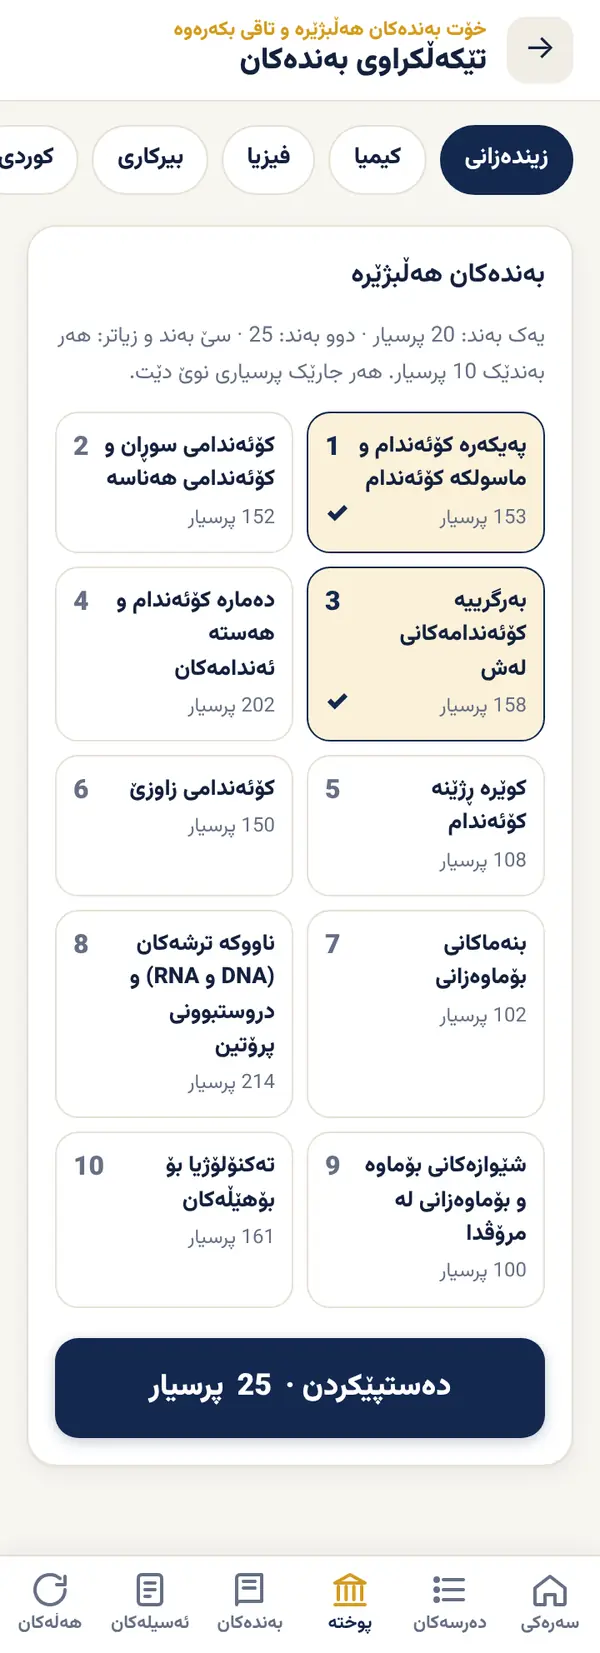
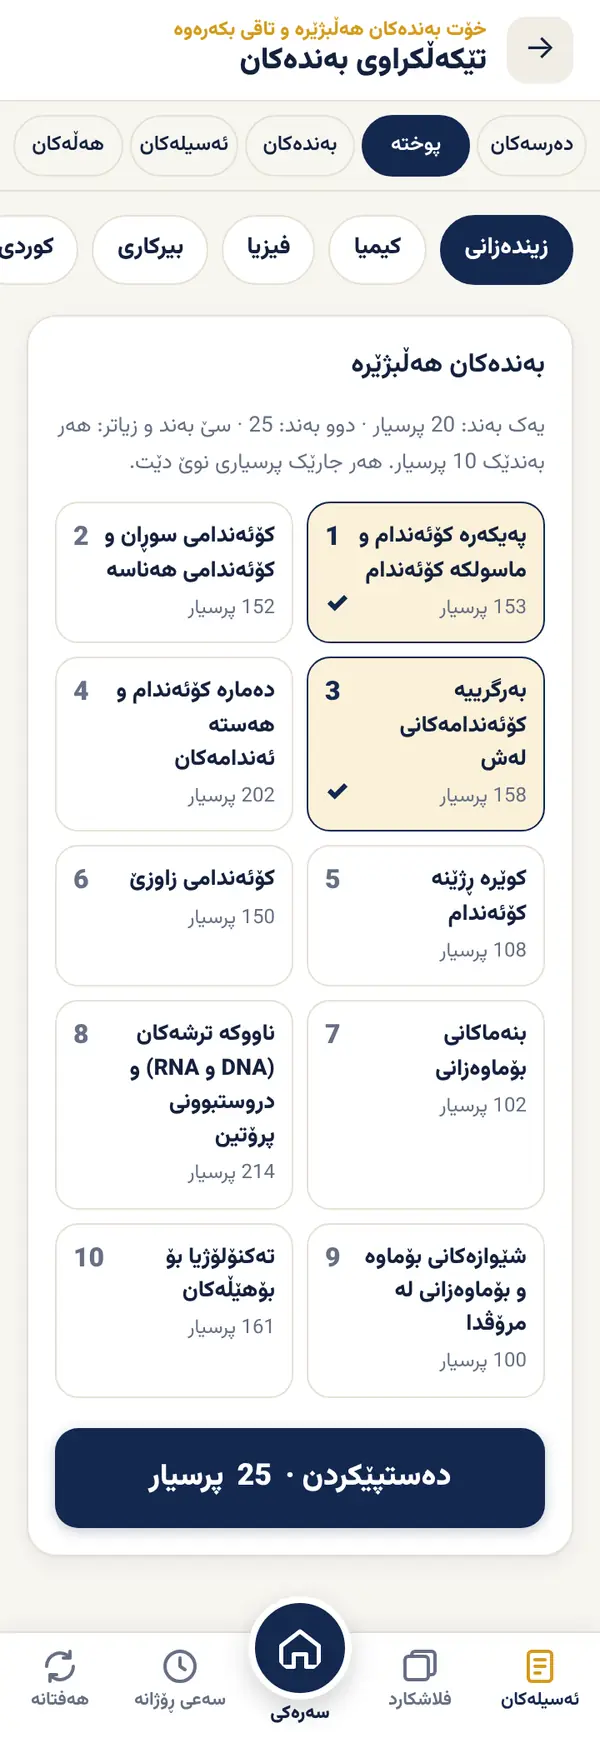
Add files via upload

diff --git a/index.html b/index.html
@@ -738,8 +738,8 @@ html{overflow-x:hidden}
 .pkrow.on{border-color:var(--brand);background:var(--goldsoft)}.pkrow input{width:18px;height:18px;margin:0}.pkk{font-weight:900;color:var(--muted)}.pkrow small{color:var(--muted)}
 .pkfoot{position:sticky;bottom:calc(84px + env(safe-area-inset-bottom,0px));display:flex;align-items:center;gap:10px;justify-content:space-between;background:var(--surface);border:1px solid var(--line);border-radius:16px;padding:10px 12px;margin-top:12px;box-shadow:var(--shadow)}
 .pkfoot .btn{width:auto;padding-inline:18px}.pkfoot span{font-size:13.5px}
-.tvph{width:min(60vw,240px);aspect-ratio:1/2;margin:0 auto;overflow:hidden;border-radius:26px;border:6px solid #111;box-shadow:0 14px 34px rgba(0,0,0,.22);background:#fff;position:relative}.tvph img{display:block;width:100%;height:auto;max-height:none;border:0;border-radius:0;margin:0}.tvph img.sc{animation:tscroll 7s ease-in-out forwards}.tvbad{display:none}@keyframes tscroll{0%,12%{transform:translateY(0)}88%,100%{transform:translateY(var(--dy))}}.tvw{font:800 30px/1 sans-serif;color:var(--brand);background:var(--card);border:1px solid var(--line);border-radius:18px;width:74px;height:74px;display:grid;place-items:center}
-.tdots i.cur{background:linear-gradient(to left,var(--brand) 0,var(--brand) var(--p,0%),var(--line) var(--p,0%));animation:tdot 7s linear forwards}
+.tvph{width:min(60vw,240px);aspect-ratio:1/2;margin:0 auto;overflow:hidden;border-radius:26px;border:6px solid #111;box-shadow:0 14px 34px rgba(0,0,0,.22);background:#fff;position:relative}.tvph img{display:block;width:100%;height:auto;max-height:none;border:0;border-radius:0;margin:0}.tvph img.sc{animation:tscroll 10s ease-in-out forwards}.tvbad{display:none}@keyframes tscroll{0%,12%{transform:translateY(0)}88%,100%{transform:translateY(var(--dy))}}.tvw{font:800 30px/1 sans-serif;color:var(--brand);background:var(--card);border:1px solid var(--line);border-radius:18px;width:74px;height:74px;display:grid;place-items:center}
+.tdots i.cur{background:linear-gradient(to left,var(--brand) 0,var(--brand) var(--p,0%),var(--line) var(--p,0%));animation:tdot 10s linear forwards}
 @keyframes tdot{from{--p:0%}to{--p:100%}}@property --p{syntax:'<percentage>';inherits:false;initial-value:0%}
 .tnote{text-align:center;color:var(--muted);font-size:13px;margin:6px 0 0}.tbtns1{display:flex;flex-direction:column;gap:6px}
 .tbody h1{font-size:22px}.tbody p{font-size:15.5px}
@@ -766,8 +766,8 @@ html{overflow-x:hidden}
 .chfile{display:flex;justify-content:space-between;align-items:center;background:var(--bg);border-radius:10px;padding:5px 10px;margin-bottom:6px;font-size:13px}.chfile button{background:none;border:0;font-size:20px;color:var(--muted)}
 .chlock{text-align:center;color:var(--muted);font-size:13.5px;padding:6px}.chdone{margin-top:14px}
 .gate{min-height:100vh;display:flex;flex-direction:column;align-items:center;padding:56px 24px 0;text-align:center;gap:10px}.gate img{width:110px;height:110px;border-radius:28px;box-shadow:0 10px 30px rgba(0,0,0,.15)}.gate b{font-size:21px}.gate span{color:var(--muted);font-size:14.5px;max-width:360px}
-.subtabs{position:sticky;z-index:15;display:flex;gap:5px;overflow-x:auto;scrollbar-width:none;padding:8px 10px;background:var(--bg);border-bottom:1px solid var(--line)}.subtabs::-webkit-scrollbar{display:none}
-.subtabs button{flex:1 0 auto;border:1px solid var(--line);background:var(--card);color:var(--fg);border-radius:999px;padding:7px 10px;font:inherit;font-size:13px;font-weight:600;cursor:pointer;white-space:nowrap;display:inline-flex;gap:6px;align-items:center;justify-content:center}
+.subtabs{position:sticky;z-index:15;display:grid;grid-auto-flow:column;grid-auto-columns:minmax(0,1fr);gap:4px;overflow:hidden;touch-action:pan-y;overscroll-behavior-x:none;padding:8px 8px;background:var(--bg);border-bottom:1px solid var(--line)}.subtabs::-webkit-scrollbar{display:none}
+.subtabs button{min-width:0;overflow:hidden;text-overflow:ellipsis;border:1px solid var(--line);background:var(--card);color:var(--fg);border-radius:999px;padding:7px 2px;font:inherit;font-size:12.5px;font-weight:600;cursor:pointer;white-space:nowrap;display:inline-flex;gap:6px;align-items:center;justify-content:center}
 .subtabs button[aria-selected=true]{background:var(--brand);border-color:var(--brand);color:#fff}.subtabs b{background:var(--bad);color:#fff;border-radius:999px;font-size:11px;padding:1px 6px}
 .podium{display:grid;grid-template-columns:1fr 1.15fr 1fr;gap:8px;align-items:end;margin-top:16px}
 .pod{display:flex;flex-direction:column;align-items:center;text-align:center;gap:2px;min-width:0}.pod b{font-size:14px;max-width:100%;overflow:hidden;text-overflow:ellipsis;white-space:nowrap}
@@ -781,6 +781,7 @@ html{overflow-x:hidden}
 .lbme{display:flex;justify-content:space-between;align-items:center;margin-top:12px;padding:10px 14px;border-radius:14px;background:var(--brand);color:#fff;font-size:14px}.lbme b{font-size:22px}
 .lbtip{margin-top:14px;padding:12px 14px;border-radius:14px;background:var(--surface);border:1px dashed var(--line);display:flex;flex-direction:column;gap:4px;font-size:13.5px;color:var(--muted)}.lbtip b{color:var(--fg)}
 .mtl.c8 .mti{background:rgba(124,58,237,.13);color:#6D28D9}
+.tv.tvdict{display:flex;flex-direction:row;flex-wrap:nowrap;gap:12px;justify-content:center;align-items:center}.tvdc{display:flex;flex-direction:column;align-items:center;gap:6px;background:var(--card);border:1px solid var(--line);border-radius:22px;padding:16px 10px;width:46%;max-width:170px;box-shadow:0 8px 22px rgba(0,0,0,.08)}.tvdc .sico{width:74px;height:74px}.tvdc b{font-size:15px}.tvdc small{color:var(--muted);font-size:12.5px}
 </style>
 
 <div id="app" dir="rtl" lang="ckb"></div>
@@ -1767,7 +1768,7 @@ async function doAsk(){const q=BYID[V.aiq],A=ST.ai[q.id]=ST.ai[q.id]||{list:[]},
 app.addEventListener('click',e=>{
   const b=e.target.closest('[data-sub],[data-sec],[data-dtab],[data-wtab],[data-tab],[data-act],[data-pick],[data-jump],[data-review],[data-pmode],[data-accm],[data-lbw]');if(!b)return;
   if(b.dataset.sub){if(b.dataset.sub!==CUR){setSub(b.dataset.sub);V.stack=[];render();scrollTo(0,0)}return}
-  if(b.dataset.sec){if(V.sec==='main'&&!RUN)V.mainY=scrollY;if(b.dataset.sec!==V.sec){V.sh=(V.sh||[]).concat([{s:V.sec,y:scrollY}]).slice(-10)}RUN=null;V.stack=[];V.sec=b.dataset.sec;if(V.sec==='bank')V.tab='subs';V.wdeck=null;V.wadeck=null;if(V.sec==='daily')V.dday=null;if(V.sec==='cards'){V.fcrun=null;fcInit()}render();scrollTo(0,V.sec==='main'?(V.mainY||0):0);return}
+  if(b.dataset.sec){if(V.sec==='main'&&!RUN)V.mainY=scrollY;if(b.dataset.sec!==V.sec){V.sh=(V.sh||[]).concat([{s:V.sec,y:scrollY}]).slice(-10)}RUN=null;V.stack=[];V.sec=b.dataset.sec;if(V.sec==='bank')V.tab='subs';V.wdeck=null;V.wadeck=null;if(V.sec==='daily')V.dday=null;if(V.sec==='cards'){V.fcrun=null;fcInit()}render();scrollTo(0,0);return}
   if(b.dataset.dtab){V.dtab=b.dataset.dtab;if(V.dtab==='plan')V.dday=V.dday||null;render();scrollTo(0,0);return}
   if(b.dataset.wtab){V.wtab=b.dataset.wtab;V.wdeck=null;V.wadeck=null;render();scrollTo(0,0);return}
   if(b.dataset.tab){RUN=null;V.stack=[];V.sec='bank';V.tab=b.dataset.tab;render();scrollTo(0,0);return}
@@ -1956,8 +1957,8 @@ function viewMain(){if(ST.user&&!V.trChk){V.trChk=1;setTimeout(trialCheck,600)}
    '<button class="mtl c5" data-sec="zikr"><span class="mti"><svg viewBox="0 0 24 24" fill="none" stroke="currentColor" stroke-width="2" stroke-linecap="round" stroke-linejoin="round" aria-hidden="true"><path d="M20 14.5A8 8 0 1 1 9.5 4a6.5 6.5 0 0 0 10.5 10.5Z"/><path d="m17 3 .7 1.5L19 5l-1.3.6L17 7l-.7-1.4L15 5l1.3-.5Z"/></svg></span><b>زیکرەکان</b><small>'+zkTile()+'</small></button>'+
    '<button class="mtl c6" data-fx="board"><span class="mti">'+icon('stats')+'</span><b>پێشەنگەکان</b><small>ڕیزبەندی قوتابیان</small></button>'+
    '<button class="mtl c7" data-sec="chat"><span class="mti">'+ICHAT+'</span><b>گفتوگۆ</b><small>'+chatTile()+'</small></button>'+
-   '<button class="mtl c8" data-act="mixstart"><span class="mti">'+icon('ex')+'</span><b>تاقیکردنەوەی تێکەڵ</b><small>دەرس و ژمارەی پرسیار خۆت هەڵبژێرە</small></button>'+
-   '</div>'+reportCard()+statsCard()+voicesCard()+'<div class="mfoot">'+themeBtn()+'<p class="muted num">Klil v55</p></div></div>';
+   '<button class="mtl c8" data-fx="mixtile"><span class="mti">'+icon('ex')+'</span><b>تاقیکردنەوەی تێکەڵ</b><small>دەرس و ژمارەی پرسیار خۆت هەڵبژێرە</small></button>'+
+   '</div>'+reportCard()+statsCard()+voicesCard()+'<div class="mfoot">'+themeBtn()+'<p class="muted num">Klil v56</p></div></div>';
   return h}
[1 lines of base64/hex data omitted]
 function subGrid(){const L=SUBS.filter(subCount);if(L.length<2)return '';
@@ -2896,12 +2897,12 @@ const TOUR=[
  {t:'گفتوگۆ',d:'پرسیار لە قوتابیانی تر بکە، داوای PDF بکە، وێنە و فایل بنێرە. هەر نامەیەک تا 100 وشە و ڕۆژانە 40 خولەک، بۆ ئەوەی کاتی خوێندنت بەفیڕۆ نەچێت.',i:'22chat'},
  {t:'پرۆفایل و ڕەنگەکان',d:'ئامانجی ڕۆژانە، ڕۆژی وەزاری، ڕەنگی ئەپەکە و هەژمارەکەت لێرە ڕێکدەخەیت.',i:'23me'},
  {t:'ئامادەیت؟',d:'ئێستا هەموو بەشەکانت ناسی. هەژمارێکی بەخۆڕایی دروست بکە. هەر قوتابییەکی نوێ بۆ ماوەی <b>سێ ڕۆژ</b> هەموو تایبەتمەندییەکانی Pro بەخۆڕایی بۆی دەکرێتەوە.',v:'go'}];
-let TOUR_T=null;const TOUR_MS=7000;
+let TOUR_T=null;const TOUR_MS=10000;
 function tourScroll(im){const f=im.parentNode;if(!f)return;const dy=im.offsetHeight-f.clientHeight;if(dy>8){im.style.setProperty('--dy',-dy+'px');im.classList.add('sc')}}
 function tourImgErr(im){const n=im.dataset.n,k=+(im.dataset.k||0)+1,L=['tour-'+n+'.webp','tour/'+n+'.webp',n+'.webp'];if(k<L.length){im.dataset.k=k;im.src=L[k]}else im.parentNode.classList.add('tvbad')}
 function tourVis(T){if(T.i)return '<div class="tvph"><img src="tour-'+T.i+'.webp" data-n="'+T.i+'" alt="" onload="tourScroll(this)" onerror="tourImgErr(this)"></div>';
   if(T.v==='hero')return '<div class="tv tvhero"><div class="tvlogo"><img src="'+LOGO+'" alt="Klil"></div><div class="tvbig num">12</div><div class="tvchips"><span>ئەسیلە</span><span>ڕوونکردنەوە</span><span>پلان</span><span>تاقیکردنەوە</span></div></div>';
-  if(T.v==='dict')return '<div class="tv tvgo"><span class="tvw">EN</span><span class="tvw">ع</span><span class="tvw">کو</span></div>';
+  if(T.v==='dict')return '<div class="tv tvdict">'+[['eng','فەرهەنگی ئینگلیزی','ئینگلیزی ← کوردی'],['arab','فەرهەنگی عەرەبی','عەرەبی ← کوردی']].map(x=>'<div class="tvdc">'+((SUBIC[x[0]]||[''])[0])+'<b>'+x[1]+'</b><small>'+x[2]+'</small></div>').join('')+'</div>';
   return '<div class="tv tvgo">'+icon('focus')+icon('nb')+icon('grp')+'</div>'}
 function viewTour(){const i=Math.min(V.tour||0,TOUR.length-1),T=TOUR[i],last=i===TOUR.length-1;clearTimeout(TOUR_T);
   if(!last){TOUR_T=setTimeout(()=>{if(tourShould()){V.tour=i+1;render()}},TOUR_MS);const nx=TOUR[i+1];if(nx&&nx.i){const p=new Image();p.src='tour-'+nx.i+'.webp'}}
@@ -3063,6 +3064,7 @@ async function chatSend(){if(CHT.busy||!sb||!ST.user)return;const ta=document.ge
   }catch(e){toast(chatErr(e&&e.message||String(e)));if(/time up|banned/.test(e&&e.message||''))chatStatus().then(render)}
   finally{CHT.busy=0;const b2=document.querySelector('.chsend');b2&&(b2.disabled=false)}}
 function p7Click(a,b){
+  if(a==='mixtile'){if(needLogin())return true;V.mainY=scrollY;V.sh=(V.sh||[]).concat([{s:'main',y:scrollY}]).slice(-10);RUN=null;V.sec='bank';V.tab='home';V.stack=[{v:'mixpick'}];render();scrollTo(0,0);return true}
   if(a==='chroom'){CHT.room=b.dataset.r;render();return true}
   if(a==='chretry'){CHT.err=0;chatPaint(false);chatLoad(CHT.room).then(()=>chatPaint(true));return true}
   if(a==='chrules'){save('klil_chat_rules',1);render();return true}

diff --git a/sw.js b/sw.js
@@ -1,6 +1,6 @@
 // Klil service worker: lets the app open without internet.
 // index.html is always fetched fresh first (so updates show at once) and the saved copy is used only when offline.
-const V='klil-v55';
+const V='klil-v56';
 const SHELL=['./','index.html','manifest.webmanifest'];
 const RQ=u=>new Request(u,{cache:'reload'});
 self.addEventListener('install',e=>{e.waitUntil(caches.open(V).then(c=>c.addAll(SHELL.map(RQ))).catch(()=>{}).then(()=>self.skipWaiting()))});
